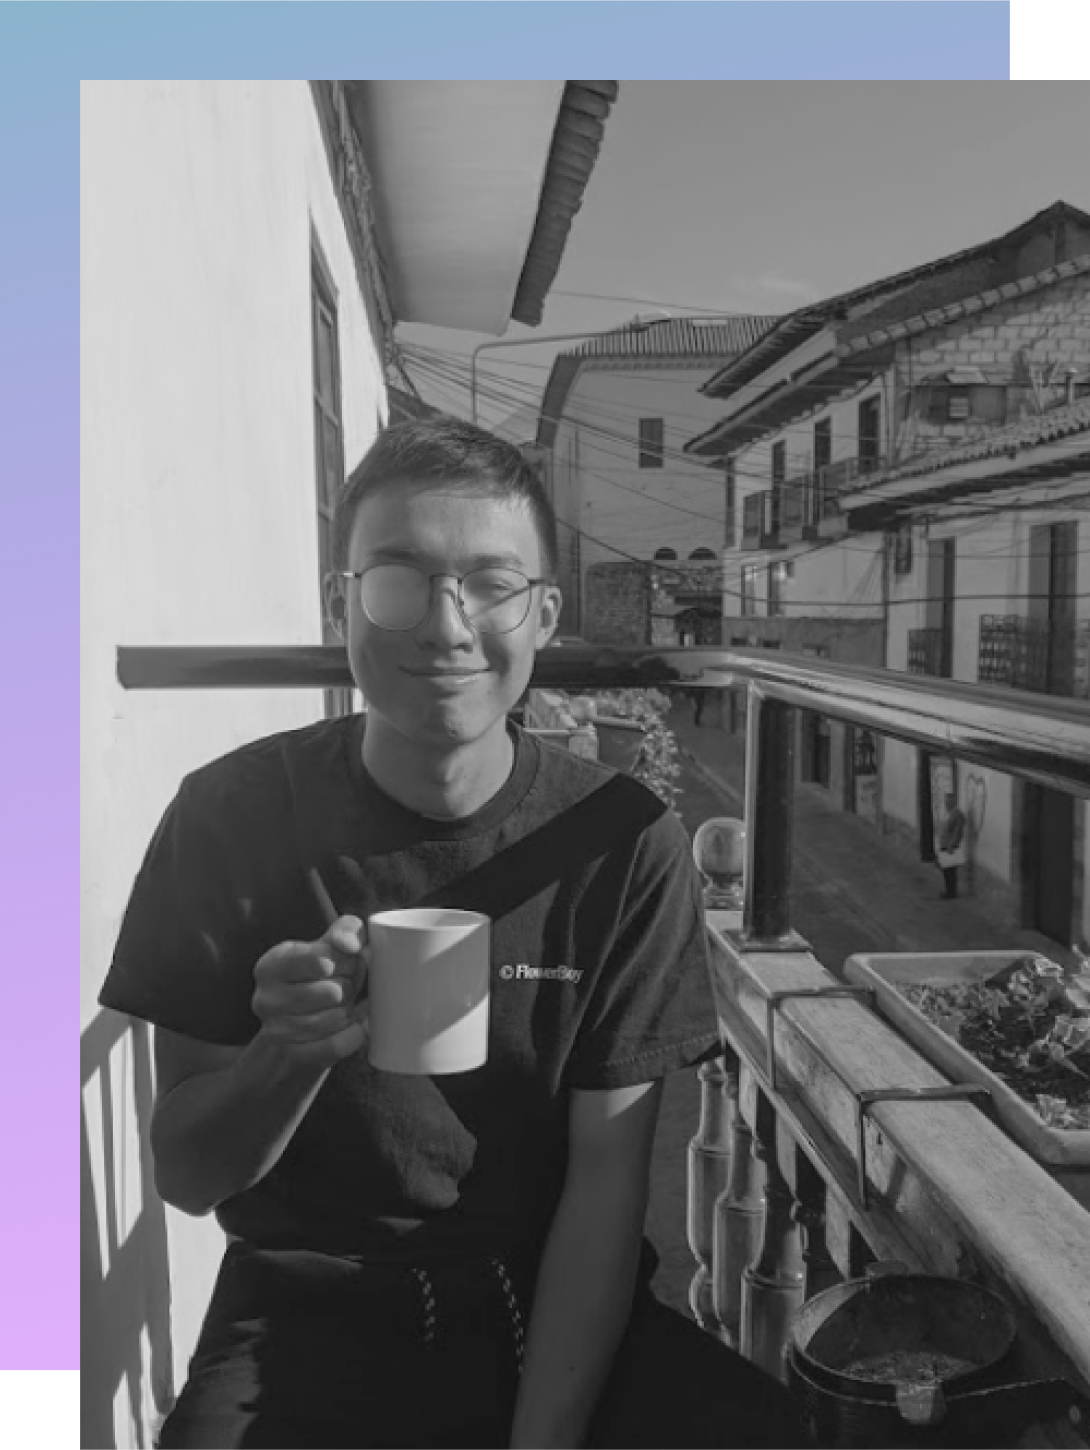
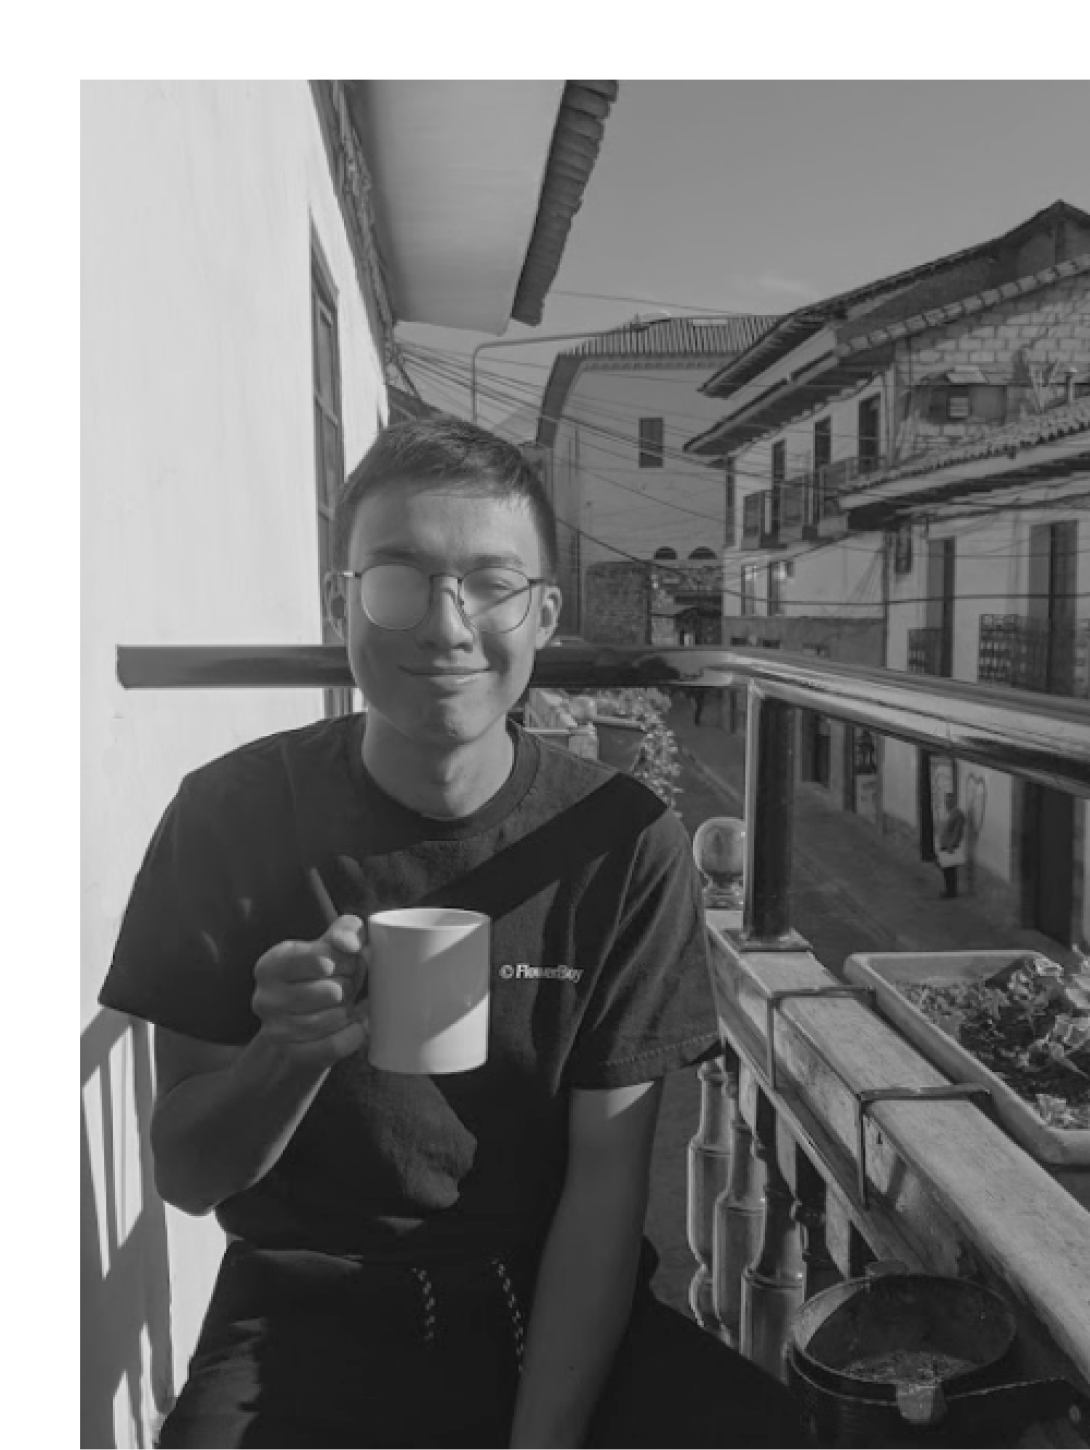
Try animating gradient

Changed region(s): [[0.0, 0.0, 0.9358, 0.9621]]

diff --git a/src/Components/AboutPage/AboutPage.tsx b/src/Components/AboutPage/AboutPage.tsx
@@ -9,6 +9,8 @@ export default class AboutPage extends React.Component<any> {
     private workRef: React.RefObject<HTMLDivElement>;
     private hasScrolled: boolean = false;
 
+    private gradient: React.RefObject<HTMLImageElement>;
+
     constructor(props: Readonly<any>) {
         super(props);
 
@@ -16,6 +18,7 @@ export default class AboutPage extends React.Component<any> {
 
         this.educationRef = React.createRef();
         this.workRef = React.createRef();
+        this.gradient = React.createRef();
     }
 
     render() {
@@ -36,7 +39,7 @@ export default class AboutPage extends React.Component<any> {
                                 create content that influences daily life.
                             </div>
                         </div>
-                        <img src={MateiLarge} className={"MateiLarge"} alt={"Matei"}/>
+                        <img src={MateiLarge} className={"MateiLarge"} alt={"Matei"} ref={this.gradient}/>
                         <img src={MateiSmall} className={"MateiSmall"} alt={"Matei"}/>
                     </div>
                     <div className={"Resume"}>
@@ -101,6 +104,13 @@ export default class AboutPage extends React.Component<any> {
             this.hasScrolled = true;
             this.educationRef.current.classList.add("Visible");
             this.workRef.current.classList.add("Visible");
+        }
+        if (this.gradient && this.gradient.current) {
+            const blueness = Math.min(100, window.scrollY / 5);
+            console.log(blueness);
+            this.gradient.current.style.background = "linear-gradient(170deg, #8AB4CC " + blueness + "%, rgba(206, 103, 255, 0.5) 100%)";
+            this.gradient.current.style.backgroundSize = "92% 95%";
+            this.gradient.current.style.backgroundRepeat = "no-repeat";
         }
     }
 }

diff --git a/src/Components/AboutPage/AboutPage.scss b/src/Components/AboutPage/AboutPage.scss
@@ -80,6 +80,10 @@
     @media only screen and (max-width: 1000px) {
       display: none;
     }
+
+    background: linear-gradient(170deg, #8AB4CC 0%, rgba(206, 103, 255, 0.5) 100%);
+    background-size: 92% 95%;
+    background-repeat: no-repeat;
   }
 
   .MateiSmall {
